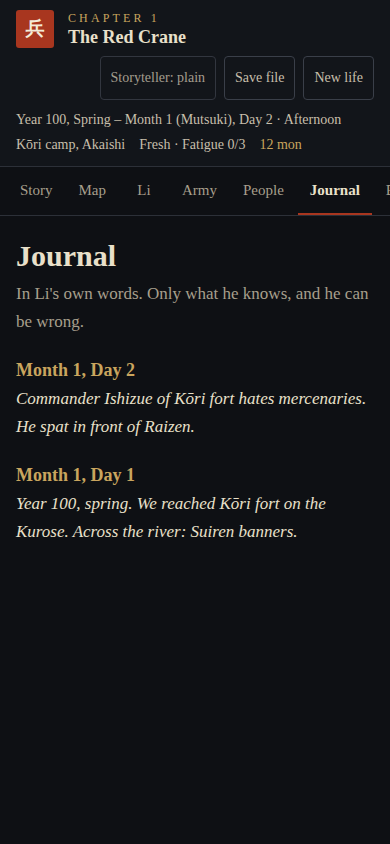
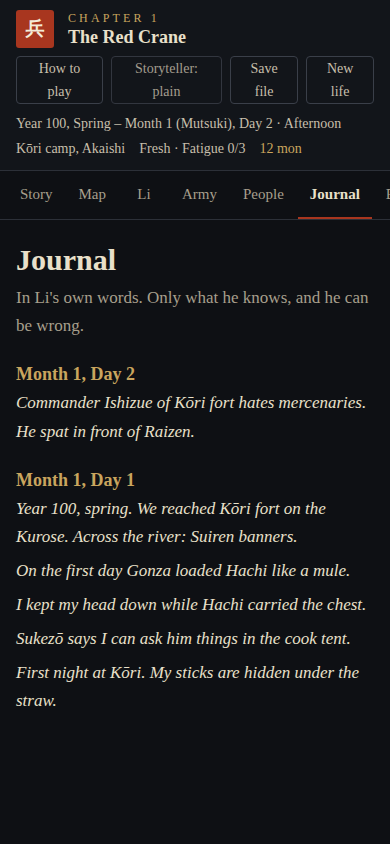
V4 done: chapter card, GUIDE hints, example lines, Why?, term tooltips, How to play; ui:check walks the chapter card
Claude-Session: https://claude.ai/code/session_01Hy5aioMVNbQK4AcqJJf4SY

diff --git a/web/main.ts b/web/main.ts
@@ -4,10 +4,12 @@ import { Narration, narrate, shouldNarrate, templateText } from '../ai/narrate';
 import { FactPacket, buildPacket } from '../ai/packet';
 import { fromSave, li, met, options, recordNote, toSave } from '../engine/engine';
 import { Reply, handleAction, handleInput, newGame, parseFreeText } from '../engine/game';
+import { GameEvent } from '../engine/types';
 import { PROLOGUE } from '../engine/content';
 import { duelPanel } from '../engine/render';
 import { GameState } from '../engine/types';
 import { pageAdapter } from './ai-page';
+import { Guidance, HOW_TO_PLAY, exampleLines, nextHint, termify } from './guide';
 import {
   armyPage, chronicle, encyclopediaPage, esc, journalPage, knownEntries, liCard, liPage, mapPage, mapSvg, peoplePage, plain, scene, strip,
 } from './panels';
@@ -90,7 +92,7 @@ function replyParts(text: string, newPeople: string[]): Parts {
   return parts;
 }
 
-const paraHtml = (p: { kind: string; text: string }) => `<p class="text ${p.kind}">${esc(p.text)}</p>`;
+const paraHtml = (p: { kind: string; text: string }) => `<p class="text ${p.kind}">${p.kind ? esc(p.text) : termify(esc(p.text), state)}</p>`;
 const chipsHtml = (chips: string[]) => (chips.length ? `<div class="chips">${chips.join('')}</div>` : '');
 
 /** Start a new turn in the log (older turns fade back). */
@@ -157,6 +159,7 @@ function refresh() {
   $('side-map').innerHTML = mapSvg(state);
   $('chronicle').innerHTML = chronicle(state);
   renderOptions();
+  renderGuide();
   if (tab !== 'story' && PAGES[tab]) { $(`tab-${tab}`).innerHTML = PAGES[tab]!(state); markSeen(tab); }
   dots();
 }
@@ -209,7 +212,17 @@ async function finish(reply: Reply, turn: HTMLElement, said: string | undefined,
     refresh();
     turn.scrollIntoView({ block: 'start' });
   }
+  addWhy(turn, said, events);
   persist();
+}
+
+/** "Why?" (ch. 8 rule 6, ch. 12b #11): what caused this turn's results, in words Li could know. */
+function addWhy(turn: HTMLElement, said: string | undefined, events: GameEvent[]) {
+  const lines = events.filter((e) => e.journal).map((e) => e.journal!);
+  if (!said && !lines.length) return;
+  if (!turn.querySelector('.chips') && !lines.length) return;
+  const cause = said ? `Because Li chose: ${said}.` : '';
+  turn.insertAdjacentHTML('beforeend', `<details class="why"><summary>Why?</summary><p>${esc([cause, ...lines.map((l) => `Li's journal: ${l}`)].filter(Boolean).join(' '))}</p></details>`);
 }
 
 async function narrateInto(turn: HTMLElement, packet: FactPacket) {
@@ -267,7 +280,9 @@ function persist() {
 
 async function send(raw: string, said = raw) {
   if (busy) return;
+  if (shownHint) markHint(shownHint); // a hint closes itself once the player acts (ch. 8 §4)
   const text = raw.trim();
+  if (!options(state).some((o) => o.key === text) && !COMMAND.test(text)) bumpFree();
   const before = new Set(Object.keys(state.relations).filter((id) => met(state, id)));
   const isKey = options(state).some((o) => o.key === text);
   if (isKey || COMMAND.test(text) || !ai || !aiOn) {
@@ -330,8 +345,9 @@ function resume(): boolean {
 
 let note = '';
 
+let hadSave = false;
 function start(fresh = false) {
-  if (!fresh && resume()) return;
+  if (!fresh && resume()) { hadSave = true; return; }
   log.innerHTML = '';
   const g = newGame();
   state = g.state;
@@ -340,7 +356,58 @@ function start(fresh = false) {
   show(note ? `${note}\n\n${g.text}` : g.text);
   note = '';
   persist();
+  if (fresh || !hadSave) resetGuide();
   openNewLife(); // a new life starts with the settings and the prologue (GE ch. 8)
+}
+
+// ---------- GUIDE hints, example lines, How to play, title cards (GE ch. 3b, 8) ----------
+
+const GUIDE_KEY = 'sengoku-soldier-guide';
+let guideSeen = new Set<string>();
+let freeTurns = 0;
+let shownHint: string | undefined;
+try { const g = JSON.parse(localStorage.getItem(GUIDE_KEY) ?? '{}'); guideSeen = new Set(g.seen ?? []); freeTurns = g.free ?? 0; } catch { /* fresh */ }
+const saveGuide = () => { try { localStorage.setItem(GUIDE_KEY, JSON.stringify({ seen: [...guideSeen], free: freeTurns })); } catch { /* fine */ } };
+function resetGuide() { guideSeen = new Set(); freeTurns = 0; saveGuide(); }
+function markHint(id: string) { guideSeen.add(id); shownHint = undefined; saveGuide(); }
+function bumpFree() { freeTurns++; saveGuide(); }
+
+function renderGuide() {
+  const h = nextHint(state, settings.guide as Guidance, guideSeen);
+  shownHint = h?.id;
+  $('guide').hidden = !h;
+  if (h) $('guide-text').textContent = h.text;
+  // Example lines until the player has written freely three times (ch. 8 rule 5).
+  const ex = $('examples');
+  ex.innerHTML = freeTurns >= 3 || settings.guide === 'off' ? '' : exampleLines(state).map((l) => `<button type="button" data-line="${esc(l)}">${esc(l)}</button>`).join('');
+}
+$('guide-close').onclick = () => { if (shownHint) markHint(shownHint); renderGuide(); };
+$('examples').addEventListener('click', (e) => {
+  const b = (e.target as HTMLElement).closest<HTMLButtonElement>('button[data-line]');
+  if (b) { input.value = b.dataset.line!; input.focus(); }
+});
+
+function openHowTo() {
+  $('ht-list').innerHTML = HOW_TO_PLAY.map(([t, d]) => `<li><b>${esc(t)}.</b> ${esc(d)}</li>`).join('');
+  $('howto-box').hidden = false;
+  $('ht-close').focus();
+}
+$('howto').onclick = openHowTo;
+$('nl-howto').onclick = openHowTo;
+$('ht-close').onclick = () => { $('howto-box').hidden = true; };
+
+/** Full-screen brush title for 2–3 seconds; a click or key ends it (GE ch. 3b "title card"). */
+function titleCard(label: string, title: string, ms = 2600): Promise<void> {
+  const box = $('titlecard');
+  $('tc-label').textContent = label;
+  $('tc-title').textContent = title;
+  box.hidden = false;
+  return new Promise((done) => {
+    const end = () => { clearTimeout(t); box.hidden = true; box.onclick = null; document.removeEventListener('keydown', end); done(); };
+    const t = window.setTimeout(end, settings.ink === 'instant' ? 900 : ms);
+    box.onclick = end;
+    document.addEventListener('keydown', end, { once: true });
+  });
 }
 
 // ---------- New life and the prologue (GE ch. 8) ----------
@@ -388,7 +455,7 @@ function playPrologue() {
     $('pr-dots').innerHTML = PROLOGUE.map((_, k) => `<i class="${k === i ? 'on' : ''}"></i>`).join('');
     $('pr-next').textContent = i === PROLOGUE.length - 1 ? 'Begin the chronicle' : 'Continue';
   };
-  const close = () => { box.hidden = true; input.focus({ preventScroll: true }); };
+  const close = () => { box.hidden = true; titleCard('Chapter 1', 'The Red Crane').then(() => input.focus({ preventScroll: true })); };
   $('pr-next').onclick = () => { if (++i >= PROLOGUE.length) close(); else show(); };
   $('pr-skip').onclick = close;
   box.hidden = false;

diff --git a/web/guide.ts b/web/guide.ts
@@ -1,0 +1,59 @@
+import { GameState } from '../engine/types';
+import { has } from '../engine/engine';
+import { knownEntries } from './panels';
+
+// Onboarding helpers (Game Experience ch. 8): GUIDE hints, example lines, nested tooltips, How to play.
+
+export type Guidance = 'full' | 'light' | 'off';
+
+export interface Hint { id: string; text: string; screen?: boolean; when: (s: GameState) => boolean }
+
+/** One short line, once per life, never more than one at a time (ch. 8 §4). "screen" hints also show on Light. */
+export const HINTS: Hint[] = [
+  { id: 'duel', screen: true, text: 'A fight. Each round, pick a move: counter beats attack, attack beats feint and observe, feint beats counter. Observe to read him first.', when: (s) => !!s.duel && !s.duel.over },
+  { id: 'options', text: 'Pick a numbered choice. Each one shows the skill it tests and any risk.', when: () => true },
+  { id: 'write', text: 'You can also write what Li does, in your own words. Start with "I".', when: (s) => has(s, 'story_cook_tent') > 0 },
+  { id: 'wait', screen: true, text: 'Quiet days can be skipped: write "wait 7" (or "wait 7 train" to train at night). It stops when something happens.', when: (s) => has(s, 'story_wait_lesson') > 0 },
+  { id: 'rumour', text: 'Word spreads. People hear what Li does, and it changes how they see him.', when: (s) => s.events.some((e) => e.type === 'rumour') },
+  { id: 'people', text: 'Li met someone new. The People tab shows how everyone seems to see him.', when: (s) => has(s, 'met_kaname') > 0 },
+];
+
+export function nextHint(s: GameState, guidance: Guidance, seen: Set<string>): Hint | undefined {
+  if (guidance === 'off') return undefined;
+  return HINTS.find((h) => !seen.has(h.id) && (guidance === 'full' || h.screen) && h.when(s));
+}
+
+/** Example lines under the write box (ch. 8 rule 5), in first person, fitting the part of the day. */
+export function exampleLines(s: GameState): string[] {
+  if (s.duel && !s.duel.over) return ['I wait for his swing and counter', 'I watch how he moves'];
+  switch (s.date.part) {
+    case 'evening': return ['I ask Sukezō where we are', 'I eat with Hachi', 'I listen at the soldiers\' fire'];
+    case 'night': return ['I train with the sticks', 'I sleep'];
+    default: return ['I help Sukezō with the wounded', 'I watch Raizen at the drill', 'I haul water'];
+  }
+}
+
+const TERMS: Record<string, string> = {
+  kurogane: 'Kurogane', kurose: 'Kurose', suiren: 'Suiren', red_crane: 'Red Crane', hagiwara: 'Hagiwara', kori: 'Kōri', sasabe: 'Sasabe', merit_law: 'merit law',
+};
+
+/** Gold-underlined terms with a short explanation, only for what Li has learned (ch. 8 §5). Works on escaped HTML. */
+export function termify(html: string, s: GameState): string {
+  let out = html;
+  for (const e of knownEntries(s)) {
+    const word = TERMS[e.id];
+    if (!word) continue;
+    const re = new RegExp(`(^|[^\\p{L}>])(${word})(?![\\p{L}])`, 'u');
+    out = out.replace(re, (_m, pre, w) => `${pre}<span class="term" tabindex="0">${w}<span class="tip" role="tooltip"><b>${e.title}</b> ${e.text}</span></span>`);
+  }
+  return out;
+}
+
+export const HOW_TO_PLAY = [
+  ['Choose or write', 'Pick a numbered choice, or write what Li does in your own words, as "I…". The story is told about Li.'],
+  ['No dice', 'The world is fair: the same choice in the same moment gives the same result. Every result has a cause; "Why?" shows it.'],
+  ['People remember', 'What Li does is seen, remembered and retold. Rumours change how people see him.'],
+  ['Losing costs', 'Wounds, shame, chains, lost friends. Li can be beaten; think before a fight.'],
+  ['Skip quiet days', 'Write "wait 7" to let a week pass in the usual routine. It stops when something happens.'],
+  ['The tabs', 'Story · Map · Li · Army · People · Journal · Encyclopedia. A gold dot means something new.'],
+];

diff --git a/web/style.css b/web/style.css
@@ -153,6 +153,31 @@ button { cursor: pointer; }
 #pr-next { padding: 0 28px; font-size: 17px; }
 @media (prefers-reduced-motion: no-preference) { .pr-text, .pr-quote { animation: ink .7s ease-out; } }
 
+/* Guide, examples, terms, why (GE ch. 8) */
+.guide { display: flex; align-items: center; gap: 12px; padding: 8px 8px 8px 14px; border: 1px solid #5A4A2A; border-radius: 4px; background: #17140E; font-size: 15px; }
+.guide .label { font-size: 11px; letter-spacing: .3em; flex-shrink: 0; }
+.guide #guide-text { flex: 1; }
+.guide button { width: 44px; height: 44px; flex-shrink: 0; background: none; border: 0; color: var(--faded); font-size: 20px; }
+.examples { display: flex; flex-wrap: wrap; gap: 8px; }
+.examples button { min-height: 44px; padding: 0 14px; background: none; border: 1px dashed #5E6470; border-radius: 22px; color: var(--paper-2); font-size: 15px; font-style: italic; }
+.examples button:hover { border-color: var(--gold); }
+.term { position: relative; text-decoration: underline; text-decoration-color: var(--gold); text-underline-offset: 3px; cursor: help; }
+.term .tip { display: none; position: absolute; left: 0; top: 100%; z-index: 5; width: min(320px, 80vw); margin-top: 6px; padding: 10px 12px; background: var(--ink-2); border: 1px solid #5A4A2A; border-radius: 4px; font-size: 14px; line-height: 1.45; font-style: normal; color: var(--paper-2); }
+.term .tip b { display: block; font-family: var(--display); color: var(--paper); }
+.term:hover .tip, .term:focus .tip { display: block; }
+.why { font-size: 15px; color: var(--faded); }
+.why summary { display: inline-flex; align-items: center; min-height: 44px; padding: 0 12px; border: 1px solid var(--line-2); border-radius: 4px; cursor: pointer; color: var(--gold); list-style: none; }
+.why summary::-webkit-details-marker { display: none; }
+.why p { margin: 8px 0 0; font-style: italic; }
+.overlay .row { display: flex; flex-wrap: wrap; gap: 12px; align-items: center; }
+.quiet { min-height: 48px; padding: 0 20px; background: none; border: 1px solid var(--line-2); border-radius: 4px; color: var(--paper-2); font-size: 16px; }
+.howto { margin: 0; padding-left: 24px; display: flex; flex-direction: column; gap: 14px; font-size: 18px; }
+.howto b { font-family: var(--display); color: var(--gold); }
+.titlecard { cursor: pointer; text-align: center; }
+.tc-inner { display: flex; flex-direction: column; gap: 18px; align-items: center; }
+.tc-title { font: 800 clamp(40px, 7vw, 88px)/1.05 var(--display); letter-spacing: .04em; }
+@media (prefers-reduced-motion: no-preference) { .titlecard:not([hidden]) .tc-inner { animation: ink .9s ease-out; } }
+
 /* Side panel */
 .side { width: 400px; flex-shrink: 0; overflow-y: auto; display: flex; flex-direction: column; gap: 20px; padding: 22px 26px; background: var(--ink-3); }
 .side-block { display: flex; flex-direction: column; gap: 8px; }

diff --git a/web/body.html b/web/body.html
@@ -23,7 +23,7 @@
         <label><input type="radio" name="ink" value="instant"> <span><b>Instant</b></span></label>
       </fieldset>
     </div>
-    <button id="begin" type="button" class="primary">Begin</button>
+    <div class="row"><button id="begin" type="button" class="primary">Begin</button><button id="nl-howto" type="button" class="quiet">How to play</button></div>
   </div>
 </div>
 <div id="prologue" class="overlay prologue" hidden role="dialog" aria-modal="true" aria-label="Prologue">
@@ -34,6 +34,16 @@
     <div class="pr-bar"><span id="pr-dots" class="pr-dots" aria-hidden="true"></span>
       <button id="pr-skip" type="button">Skip</button><button id="pr-next" type="button" class="primary">Continue</button></div>
   </div>
+</div>
+<div id="howto-box" class="overlay" hidden role="dialog" aria-modal="true" aria-labelledby="ht-title">
+  <div class="overlay-inner">
+    <h1 id="ht-title">How to play</h1>
+    <ol id="ht-list" class="howto"></ol>
+    <button id="ht-close" type="button" class="primary">Back to the chronicle</button>
+  </div>
+</div>
+<div id="titlecard" class="overlay titlecard" hidden aria-live="polite">
+  <div class="tc-inner"><span id="tc-label" class="label"></span><span id="tc-title" class="tc-title"></span></div>
 </div>
 <div class="app">
   <header class="strip">
@@ -49,6 +59,7 @@
       <div><dt class="sr">Money</dt><dd id="s-money" class="gold"></dd></div>
     </dl>
     <div class="file">
+      <button id="howto" type="button">How to play</button>
       <button id="storyteller" type="button" aria-pressed="false">Storyteller: plain</button>
       <button id="savebtn" type="button">Save file</button>
       <button id="new" type="button">New life</button>
@@ -88,12 +99,14 @@
       <div id="log" class="log" aria-live="polite"></div>
       <div class="choose">
         <div id="duel" class="duel" hidden></div>
+        <div id="guide" class="guide" hidden><span class="label">Guide</span><span id="guide-text"></span><button id="guide-close" type="button" aria-label="Close this hint">×</button></div>
         <div id="opts" class="opts"></div>
         <form id="f" class="write">
           <label for="in">Or write it</label>
           <input id="in" autocomplete="off" placeholder="I ask Sukezō where we are">
           <button type="submit">Send</button>
         </form>
+        <div id="examples" class="examples" aria-label="Example lines"></div>
       </div>
     </main>
     <section id="tab-map" class="panel page" role="tabpanel" hidden></section>

diff --git a/docs/BUILD_PLAN.md b/docs/BUILD_PLAN.md
@@ -16,7 +16,7 @@ TypeScript on Node 22 · engine = pure library in `engine/` (Vitest) · `ai/` on
 | V1 ✅ | Engine catch-up | WB ch. 8, 11; GE ch. 7 | rumour spreading done; all engine text in third person; HELP/WAIT per ch. 11; replay test green |
 | V2 ✅ | War chronicle UI | GE ch. 3, 6 | Story tab + side panel + tabs (Army = outside view) match the reference screens at 1440 and 390 px; contrast and 44 px checks pass |
 | V3 ✅ | AI layer | GE ch. 5, 7 | interpreter (asks when unsure) + narrator + fact checker; claude.ai page mode, chat mode and no-AI mode; ink streaming; REWRITE / CORRECT; golden set ≥ 20 fact packets passes |
-| V4 🟡 | Onboarding | GE ch. 8 | New life → prologue → chapter card → first-week beats ✚ → WAIT lesson → Daisuke sparring ✚; GUIDE hints, example lines, "Why?", tooltips, How to play; ch. 8 time targets met in a Playwright run |
+| V4 ✅ | Onboarding | GE ch. 8 | New life → prologue → chapter card → first-week beats ✚ → WAIT lesson → Daisuke sparring ✚; GUIDE hints, example lines, "Why?", tooltips, How to play; ch. 8 time targets met in a Playwright run |
 | V5 | Big moments + pacing core | GE ch. 3b, 9 | 4 moment tiers; title card, duel overlay, legend screen; director phases with beat windows (slave stage); session-end summary |
 | V6 | Slice test | GE ch. 8–9; Numbers §4, §12 | Monte Carlo duel tests; determinism tests; **owner playtest**; fixes done |
 
@@ -45,11 +45,15 @@ TypeScript on Node 22 · engine = pure library in `engine/` (Vitest) · `ai/` on
 - **Evidence**: `npm test` 121 passed — the **narrator golden set** = 25 real moments of play (arrival, chores, every band member's talk, all five rumours, Gonza catching Li twice, night training, the story days, the raid start and its won/fled/lost endings, word spreading): no secret in any packet; the template passes the check; six planted mistakes (invented name, the name Hattori, a new number, an invented death, "you", stat words) and a dropped dialogue line are all caught; the loop is tested with a fake AI (accept, rewrite once, fall back). `npm run ui:check` also plays the AI path in Chromium with a fake Claude in the page (interpret → confirm → engine → narrate → Rewrite → refusal → saved notes). Code review (medium) found 4 issues, all fixed.
 - **Not proven yet**: the real Claude in the claude.ai viewer (no viewer in this sandbox) — the owner should try free text on the published page; how often real narrations pass the check first time. **Later**: engine use of tone, promises and lies (stored already); "any other action" resolution by skill vs difficulty (GE ch. 5 step 4) — today the interpreter maps only to actions the engine already has.
 
-### V4 progress (Oct 6) 🟡
+### V4 report (Oct 6) ✅
 - ✅ **New life screen** (way of play: Ironman; Story mode shown as "comes later" · Storyteller Claude / plain · Guidance full / light / off · Ink speed slow / fast / instant), remembered per browser; opens on every new life.
 - ✅ **Prologue**: 7 hand-written ink slides (`PROLOGUE` in `engine/content.ts`, only what Li knows), Skip / Continue / "Begin the chronicle".
 - ✅ `ui:check` walks New life → prologue → game at 1440 / 900 / 390 px (screens in `docs/screens/v4/`).
-- ⏳ Still to do: chapter card · first-week teaching beats ✚ (Gonza's chest Day 1 morning, the cook tent, first night, Sukezō's WAIT lesson Day 7) · Daisuke sparring bout (Month 1, ~Day 20) · GUIDE hint line (uses the Guidance setting) · example lines under the write box until 3 free-text turns · "Why?" on changes · nested tooltips · How to play page · ch. 8 time targets in a Playwright run.
+- ✅ Chapter card after the prologue ("Chapter 1 · The Red Crane"), reusable title card (click or key to end).
+- ✅ First-week beats ✚ as story events, with **story choices** that lapse when the part of the day ends: Gonza's chest (Day 1 morning; take it ⚠ or look away), the cook tent, the first night, Sukezō's WAIT lesson (Day 7 evening).
+- ✅ **Daisuke sparring bout** (Month 1, Day 20, Sasabe threshing floor; fight or walk past). Duel outcomes now live in each duel template (text, journal, growth, merit, relationships, memories, wound cap: sticks leave at worst Hurt). Winnable by reading him: 31 of 178 move lines win.
+- ✅ GUIDE hint line (one at a time, once per life, closes when the player acts; Light = only screen hints), example lines under the write box until 3 free-text turns, "Why?" on results (the choice + Li's journal lines), gold-underlined terms with tooltips (only learned Encyclopedia entries), How to play (strip + New life screen; six points).
+- Not done: measuring the ch. 8 real-time targets (needs a human playtest, V6).
 
 ## Phase 2 – Stage 1 complete: the slave arc (→ freedom, 8–12 h)
 Freedom routes, contract seasons, Year 100 story calendar, timeskip summary, Journal/RECAP, save slots. Done when simulated strong careers reach freedom at 13–15 and the owner has played to freedom.

diff --git a/docs/STATUS.md b/docs/STATUS.md
@@ -3,7 +3,7 @@
 ## ▶ Start the next session with this (copy-paste)
 > Continue building Sengoku Soldier in the Simjulation repo on branch **`build/stage-1`** (push there; never to main; no PRs).
 > Read `CLAUDE.md`, `docs/STATUS.md`, `docs/MASTER_BUILD_PROMPT.md` and `docs/BUILD_PLAN.md` first, then only the chapters the milestone names.
-> Next milestone: **finish V4 Onboarding** (New life + prologue are done; see the V4 progress list in BUILD_PLAN) (`docs/GAME_EXPERIENCE.md` ch. 8: New life screen, 7-slide prologue, first-week teaching beats, Daisuke sparring bout, GUIDE hints, example lines, "Why?", tooltips, How to play). Then V5 (big moments + pacing core) and V6 (slice test).
+> Next milestone: **V5 big moments + pacing core**, then V6 (see BUILD_PLAN for what is done) (`docs/GAME_EXPERIENCE.md` ch. 8: New life screen, 7-slide prologue, first-week teaching beats, Daisuke sparring bout, GUIDE hints, example lines, "Why?", tooltips, How to play). Then V5 (big moments + pacing core) and V6 (slice test).
 > Verify with `npm test`, `npm run typecheck` and `npm run ui:check` (start `npm run web` first). Publish the game with `node scripts/build-artifact.mjs` and republish `dist-web/sengoku-soldier.html` to https://claude.ai/artifact/AcDN6DV8D9SC5dBJybhcdx (keep the `sample` capability). Update STATUS and BUILD_PLAN at the end.
 
 **Where things are (Oct 6):** code + newest docs on `build/stage-1` (V1–V3 done + UI feedback round). Design history on `design/world-bible`. `main` = old prototype. Plugins are enabled in `.claude/settings.json`; the playwright plugin needs Google Chrome (missing in cloud), so use `npm run ui:check` (playwright-core + /opt/pw-browsers Chromium). Owner feedback so far: loves the war chronicle; story and choices now scroll as one column (fixed Oct 6).
